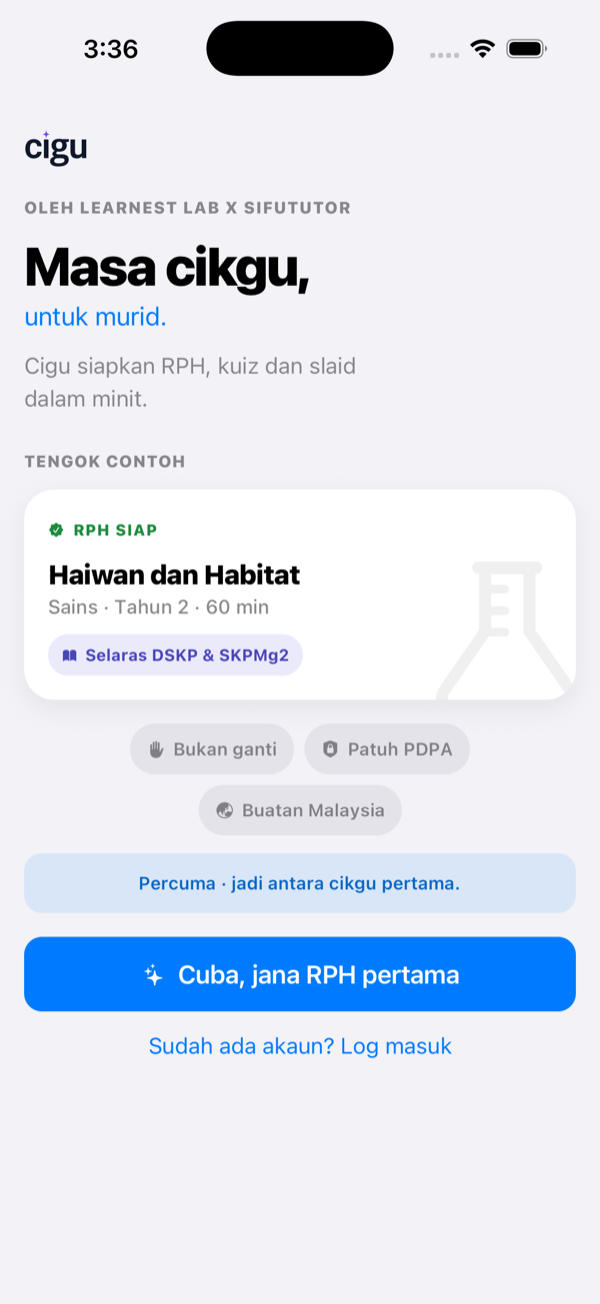
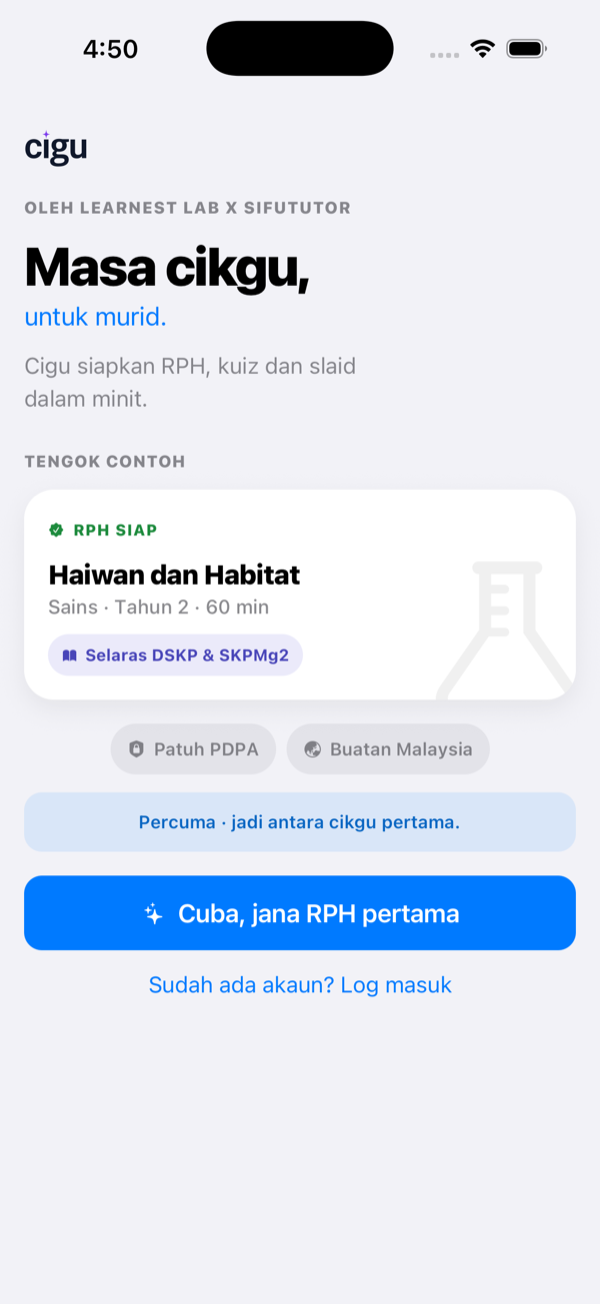
refresh: catalog after QA fixes (bukan-ganti removed, step-flow full-screen)
- 21 Welcome: re-captured 2-chip band (Bukan ganti chip removed); desc fixed.
- 33 Generate step 1: re-captured full-screen player (no tab bar); desc updated.
Captured from merged main (87115a8). Build token 20260630b.

Changed region(s): [[0.03, 0.5521, 0.96, 0.8282], [0.12, 0.0307, 0.24, 0.0613]]

diff --git a/index.html b/index.html
@@ -135,16 +135,16 @@
     </div>
     <div class="grid">
   <article class="card" id="screen-21">
-    <div class="frame"><img loading="lazy" src="screens/21-onboarding-welcome.png?v=20260630a" alt="Onboarding · Welcome"></div>
+    <div class="frame"><img loading="lazy" src="screens/21-onboarding-welcome.png?v=20260630b" alt="Onboarding · Welcome"></div>
     <div class="meta">
       <div class="num">21</div>
       <h3>Onboarding · Welcome</h3>
       <div class="tags"><span class="tag" style="--tc:#8a6d3b">Signed out</span><span class="tag" style="--tc:#5b6470">First run</span></div>
-      <p>The reworked first-run brand moment (onboarding collapsed to this one screen, then straight into a free taste). The “cigu” wordmark, the credit “OLEH LEARNEST LAB X SIFUTUTOR”, the promise “Masa cikgu, untuk murid.”, a sample “RPH SIAP” card (Haiwan dan Habitat), and trust chips (Bukan ganti · Patuh PDPA · Buatan Malaysia). One “Cuba, jana RPH pertama” button, with “Sudah ada akaun? Log masuk” below.</p>
+      <p>The reworked first-run brand moment (onboarding collapsed to this one screen, then straight into a free taste). The “cigu” wordmark, the credit “OLEH LEARNEST LAB X SIFUTUTOR”, the promise “Masa cikgu, untuk murid.”, a sample “RPH SIAP” card (Haiwan dan Habitat), and trust chips (Patuh PDPA · Buatan Malaysia). One “Cuba, jana RPH pertama” button, with “Sudah ada akaun? Log masuk” below.</p>
     </div>
   </article>
   <article class="card" id="screen-27">
-    <div class="frame"><img loading="lazy" src="screens/27-sign-in.png?v=20260630a" alt="Sign-in"></div>
+    <div class="frame"><img loading="lazy" src="screens/27-sign-in.png?v=20260630b" alt="Sign-in"></div>
     <div class="meta">
       <div class="num">27</div>
       <h3>Sign-in</h3>
@@ -153,7 +153,7 @@
     </div>
   </article>
   <article class="card" id="screen-28">
-    <div class="frame"><img loading="lazy" src="screens/28-magic-error.png?v=20260630a" alt="Magic-link · Error"></div>
+    <div class="frame"><img loading="lazy" src="screens/28-magic-error.png?v=20260630b" alt="Magic-link · Error"></div>
     <div class="meta">
       <div class="num">28</div>
       <h3>Magic-link · Error</h3>
@@ -169,7 +169,7 @@
     </div>
     <div class="grid">
   <article class="card" id="screen-1">
-    <div class="frame"><img loading="lazy" src="screens/01-today.png?v=20260630a" alt="Hari Ini · Signed in"></div>
+    <div class="frame"><img loading="lazy" src="screens/01-today.png?v=20260630b" alt="Hari Ini · Signed in"></div>
     <div class="meta">
       <div class="num">01</div>
       <h3>Hari Ini · Signed in</h3>
@@ -178,7 +178,7 @@
     </div>
   </article>
   <article class="card" id="screen-23">
-    <div class="frame"><img loading="lazy" src="screens/23-today-signedout.png?v=20260630a" alt="Hari Ini · Signed out"></div>
+    <div class="frame"><img loading="lazy" src="screens/23-today-signedout.png?v=20260630b" alt="Hari Ini · Signed out"></div>
     <div class="meta">
       <div class="num">23</div>
       <h3>Hari Ini · Signed out</h3>
@@ -194,7 +194,7 @@
     </div>
     <div class="grid">
   <article class="card" id="screen-2">
-    <div class="frame"><img loading="lazy" src="screens/02-arkib.png?v=20260630a" alt="Arkib · Aktiviti"></div>
+    <div class="frame"><img loading="lazy" src="screens/02-arkib.png?v=20260630b" alt="Arkib · Aktiviti"></div>
     <div class="meta">
       <div class="num">02</div>
       <h3>Arkib · Aktiviti</h3>
@@ -203,7 +203,7 @@
     </div>
   </article>
   <article class="card" id="screen-24">
-    <div class="frame"><img loading="lazy" src="screens/24-arkib-signedout.png?v=20260630a" alt="Arkib · Signed out"></div>
+    <div class="frame"><img loading="lazy" src="screens/24-arkib-signedout.png?v=20260630b" alt="Arkib · Signed out"></div>
     <div class="meta">
       <div class="num">24</div>
       <h3>Arkib · Signed out</h3>
@@ -219,7 +219,7 @@
     </div>
     <div class="grid">
   <article class="card" id="screen-3">
-    <div class="frame"><img loading="lazy" src="screens/03-generate.png?v=20260630a" alt="Jana RPH · Confirm card"></div>
+    <div class="frame"><img loading="lazy" src="screens/03-generate.png?v=20260630b" alt="Jana RPH · Confirm card"></div>
     <div class="meta">
       <div class="num">03</div>
       <h3>Jana RPH · Confirm card</h3>
@@ -228,16 +228,16 @@
     </div>
   </article>
   <article class="card" id="screen-33">
-    <div class="frame"><img loading="lazy" src="screens/33-generate-step1-subject.png?v=20260630a" alt="Step 1 · Subject"></div>
+    <div class="frame"><img loading="lazy" src="screens/33-generate-step1-subject.png?v=20260630b" alt="Step 1 · Subject"></div>
     <div class="meta">
       <div class="num">33</div>
       <h3>Step 1 · Subject</h3>
       <div class="tags"><span class="tag" style="--tc:#1f3d2f">Signed in</span><span class="tag" style="--tc:#0a66c2">Step flow</span></div>
-      <p>Tapping “Ubah butiran” opens the reworked step flow, restyled into the calm “Class Mode” player: a thin top progress bar (“Langkah 1/3”), one big question (“Cikgu ajar apa?”), and a searchable subject list grouped by cluster (Lazim · Bahasa), with the current subject (Sains) pre-ticked. Picking a subject auto-advances to the next step.</p>
+      <p>Tapping “Ubah butiran” opens the reworked step flow, now the calm full-screen “Class Mode” player (no tab bar): a thin top progress bar (“Langkah 1/3”), one big question (“Cikgu ajar apa?”), and a searchable subject list grouped by cluster (Lazim · Bahasa), with the current subject (Sains) pre-ticked. Picking a subject auto-advances to the next step.</p>
     </div>
   </article>
   <article class="card" id="screen-34">
-    <div class="frame"><img loading="lazy" src="screens/34-generate-step2-level.png?v=20260630a" alt="Step 2 · Level"></div>
+    <div class="frame"><img loading="lazy" src="screens/34-generate-step2-level.png?v=20260630b" alt="Step 2 · Level"></div>
     <div class="meta">
       <div class="num">34</div>
       <h3>Step 2 · Level</h3>
@@ -246,7 +246,7 @@
     </div>
   </article>
   <article class="card" id="screen-35">
-    <div class="frame"><img loading="lazy" src="screens/35-generate-step3-topic.png?v=20260630a" alt="Step 3 · Topic"></div>
+    <div class="frame"><img loading="lazy" src="screens/35-generate-step3-topic.png?v=20260630b" alt="Step 3 · Topic"></div>
     <div class="meta">
       <div class="num">35</div>
       <h3>Step 3 · Topic</h3>
@@ -255,7 +255,7 @@
     </div>
   </article>
   <article class="card" id="screen-36">
-    <div class="frame"><img loading="lazy" src="screens/36-generate-signedout.png?v=20260630a" alt="Jana RPH · Signed out"></div>
+    <div class="frame"><img loading="lazy" src="screens/36-generate-signedout.png?v=20260630b" alt="Jana RPH · Signed out"></div>
     <div class="meta">
       <div class="num">36</div>
       <h3>Jana RPH · Signed out</h3>
@@ -271,7 +271,7 @@
     </div>
     <div class="grid">
   <article class="card" id="screen-4">
-    <div class="frame"><img loading="lazy" src="screens/04-kelas.png?v=20260630a" alt="Kelas · Signed in"></div>
+    <div class="frame"><img loading="lazy" src="screens/04-kelas.png?v=20260630b" alt="Kelas · Signed in"></div>
     <div class="meta">
       <div class="num">04</div>
       <h3>Kelas · Signed in</h3>
@@ -280,7 +280,7 @@
     </div>
   </article>
   <article class="card" id="screen-25">
-    <div class="frame"><img loading="lazy" src="screens/25-kelas-signedout.png?v=20260630a" alt="Kelas · Signed out"></div>
+    <div class="frame"><img loading="lazy" src="screens/25-kelas-signedout.png?v=20260630b" alt="Kelas · Signed out"></div>
     <div class="meta">
       <div class="num">25</div>
       <h3>Kelas · Signed out</h3>
@@ -296,7 +296,7 @@
     </div>
     <div class="grid">
   <article class="card" id="screen-5">
-    <div class="frame"><img loading="lazy" src="screens/05-profile.png?v=20260630a" alt="Profil · Hub"></div>
+    <div class="frame"><img loading="lazy" src="screens/05-profile.png?v=20260630b" alt="Profil · Hub"></div>
     <div class="meta">
       <div class="num">05</div>
       <h3>Profil · Hub</h3>
@@ -305,7 +305,7 @@
     </div>
   </article>
   <article class="card" id="screen-26">
-    <div class="frame"><img loading="lazy" src="screens/26-profile-signedout.png?v=20260630a" alt="Profil · Signed out"></div>
+    <div class="frame"><img loading="lazy" src="screens/26-profile-signedout.png?v=20260630b" alt="Profil · Signed out"></div>
     <div class="meta">
       <div class="num">26</div>
       <h3>Profil · Signed out</h3>
@@ -314,7 +314,7 @@
     </div>
   </article>
   <article class="card" id="screen-6">
-    <div class="frame"><img loading="lazy" src="screens/06-profile-cikgu.png?v=20260630a" alt="Profil cikgu · Detail"></div>
+    <div class="frame"><img loading="lazy" src="screens/06-profile-cikgu.png?v=20260630b" alt="Profil cikgu · Detail"></div>
     <div class="meta">
       <div class="num">06</div>
       <h3>Profil cikgu · Detail</h3>
@@ -323,7 +323,7 @@
     </div>
   </article>
   <article class="card" id="screen-7">
-    <div class="frame"><img loading="lazy" src="screens/07-profile-edit.png?v=20260630a" alt="Profil cikgu · Edit"></div>
+    <div class="frame"><img loading="lazy" src="screens/07-profile-edit.png?v=20260630b" alt="Profil cikgu · Edit"></div>
     <div class="meta">
       <div class="num">07</div>
       <h3>Profil cikgu · Edit</h3>
@@ -339,7 +339,7 @@
     </div>
     <div class="grid">
   <article class="card" id="screen-8">
-    <div class="frame"><img loading="lazy" src="screens/08-rph-detail.png?v=20260630a" alt="RPH Detail"></div>
+    <div class="frame"><img loading="lazy" src="screens/08-rph-detail.png?v=20260630b" alt="RPH Detail"></div>
     <div class="meta">
       <div class="num">08</div>
       <h3>RPH Detail</h3>
@@ -348,7 +348,7 @@
     </div>
   </article>
   <article class="card" id="screen-18">
-    <div class="frame"><img loading="lazy" src="screens/18-quiz.png?v=20260630a" alt="Bahan · Kuiz"></div>
+    <div class="frame"><img loading="lazy" src="screens/18-quiz.png?v=20260630b" alt="Bahan · Kuiz"></div>
     <div class="meta">
       <div class="num">18</div>
       <h3>Bahan · Kuiz</h3>
@@ -357,7 +357,7 @@
     </div>
   </article>
   <article class="card" id="screen-19">
-    <div class="frame"><img loading="lazy" src="screens/19-slaid.png?v=20260630a" alt="Bahan · Slaid"></div>
+    <div class="frame"><img loading="lazy" src="screens/19-slaid.png?v=20260630b" alt="Bahan · Slaid"></div>
     <div class="meta">
       <div class="num">19</div>
       <h3>Bahan · Slaid</h3>
@@ -366,7 +366,7 @@
     </div>
   </article>
   <article class="card" id="screen-20">
-    <div class="frame"><img loading="lazy" src="screens/20-peta-minda.png?v=20260630a" alt="Bahan · Peta Minda"></div>
+    <div class="frame"><img loading="lazy" src="screens/20-peta-minda.png?v=20260630b" alt="Bahan · Peta Minda"></div>
     <div class="meta">
       <div class="num">20</div>
       <h3>Bahan · Peta Minda</h3>
@@ -375,7 +375,7 @@
     </div>
   </article>
   <article class="card" id="screen-32">
-    <div class="frame"><img loading="lazy" src="screens/32-fresh-spotlight.png?v=20260630a" alt="RPH · Fresh spotlight"></div>
+    <div class="frame"><img loading="lazy" src="screens/32-fresh-spotlight.png?v=20260630b" alt="RPH · Fresh spotlight"></div>
     <div class="meta">
       <div class="num">32</div>
       <h3>RPH · Fresh spotlight</h3>
@@ -384,7 +384,7 @@
     </div>
   </article>
   <article class="card" id="screen-37">
-    <div class="frame"><img loading="lazy" src="screens/37-detail-signedout-401.png?v=20260630a" alt="RPH Detail · Signed out (401)"></div>
+    <div class="frame"><img loading="lazy" src="screens/37-detail-signedout-401.png?v=20260630b" alt="RPH Detail · Signed out (401)"></div>
     <div class="meta">
       <div class="num">37</div>
       <h3>RPH Detail · Signed out (401)</h3>
@@ -400,7 +400,7 @@
     </div>
     <div class="grid">
   <article class="card" id="screen-9">
-    <div class="frame"><img loading="lazy" src="screens/09-class-detail.png?v=20260630a" alt="Class detail"></div>
+    <div class="frame"><img loading="lazy" src="screens/09-class-detail.png?v=20260630b" alt="Class detail"></div>
     <div class="meta">
       <div class="num">09</div>
       <h3>Class detail</h3>
@@ -409,7 +409,7 @@
     </div>
   </article>
   <article class="card" id="screen-10">
-    <div class="frame"><img loading="lazy" src="screens/10-arkib-fragment.png?v=20260630a" alt="Arkib fragment"></div>
+    <div class="frame"><img loading="lazy" src="screens/10-arkib-fragment.png?v=20260630b" alt="Arkib fragment"></div>
     <div class="meta">
       <div class="num">10</div>
       <h3>Arkib fragment</h3>
@@ -418,7 +418,7 @@
     </div>
   </article>
   <article class="card" id="screen-11">
-    <div class="frame"><img loading="lazy" src="screens/11-class-mode.png?v=20260630a" alt="Class mode (teaching)"></div>
+    <div class="frame"><img loading="lazy" src="screens/11-class-mode.png?v=20260630b" alt="Class mode (teaching)"></div>
     <div class="meta">
       <div class="num">11</div>
       <h3>Class mode (teaching)</h3>
@@ -434,7 +434,7 @@
     </div>
     <div class="grid">
   <article class="card" id="screen-15">
-    <div class="frame"><img loading="lazy" src="screens/15-account-upgrade.png?v=20260630a" alt="Naik taraf (Paywall)"></div>
+    <div class="frame"><img loading="lazy" src="screens/15-account-upgrade.png?v=20260630b" alt="Naik taraf (Paywall)"></div>
     <div class="meta">
       <div class="num">15</div>
       <h3>Naik taraf (Paywall)</h3>
@@ -443,7 +443,7 @@
     </div>
   </article>
   <article class="card" id="screen-12">
-    <div class="frame"><img loading="lazy" src="screens/12-account-consent.png?v=20260630a" alt="Persetujuan (Consent)"></div>
+    <div class="frame"><img loading="lazy" src="screens/12-account-consent.png?v=20260630b" alt="Persetujuan (Consent)"></div>
     <div class="meta">
       <div class="num">12</div>
       <h3>Persetujuan (Consent)</h3>
@@ -452,7 +452,7 @@
     </div>
   </article>
   <article class="card" id="screen-13">
-    <div class="frame"><img loading="lazy" src="screens/13-account-export.png?v=20260630a" alt="Eksport data"></div>
+    <div class="frame"><img loading="lazy" src="screens/13-account-export.png?v=20260630b" alt="Eksport data"></div>
     <div class="meta">
       <div class="num">13</div>
       <h3>Eksport data</h3>
@@ -461,7 +461,7 @@
     </div>
   </article>
   <article class="card" id="screen-14">
-    <div class="frame"><img loading="lazy" src="screens/14-account-delete.png?v=20260630a" alt="Padam akaun"></div>
+    <div class="frame"><img loading="lazy" src="screens/14-account-delete.png?v=20260630b" alt="Padam akaun"></div>
     <div class="meta">
       <div class="num">14</div>
       <h3>Padam akaun</h3>
@@ -470,7 +470,7 @@
     </div>
   </article>
   <article class="card" id="screen-17">
-    <div class="frame"><img loading="lazy" src="screens/17-billing-return.png?v=20260630a" alt="Billing return"></div>
+    <div class="frame"><img loading="lazy" src="screens/17-billing-return.png?v=20260630b" alt="Billing return"></div>
     <div class="meta">
       <div class="num">17</div>
       <h3>Billing return</h3>
@@ -486,7 +486,7 @@
     </div>
     <div class="grid">
   <article class="card" id="screen-29">
-    <div class="frame"><img loading="lazy" src="screens/29-generate-loading.png?v=20260630a" alt="Generating (loading)"></div>
+    <div class="frame"><img loading="lazy" src="screens/29-generate-loading.png?v=20260630b" alt="Generating (loading)"></div>
     <div class="meta">
       <div class="num">29</div>
       <h3>Generating (loading)</h3>
@@ -495,7 +495,7 @@
     </div>
   </article>
   <article class="card" id="screen-30">
-    <div class="frame"><img loading="lazy" src="screens/30-detail-error.png?v=20260630a" alt="Load error"></div>
+    <div class="frame"><img loading="lazy" src="screens/30-detail-error.png?v=20260630b" alt="Load error"></div>
     <div class="meta">
       <div class="num">30</div>
       <h3>Load error</h3>
@@ -511,7 +511,7 @@
     </div>
     <div class="grid">
   <article class="card" id="screen-16">
-    <div class="frame"><img loading="lazy" src="screens/16-timetable-import.png?v=20260630a" alt="Susun jadual"></div>
+    <div class="frame"><img loading="lazy" src="screens/16-timetable-import.png?v=20260630b" alt="Susun jadual"></div>
     <div class="meta">
       <div class="num">16</div>
       <h3>Susun jadual</h3>